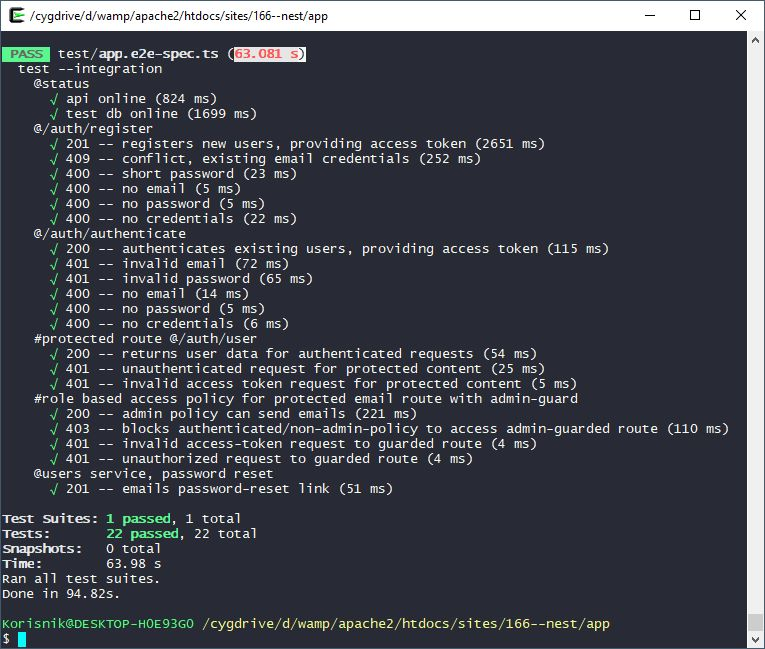
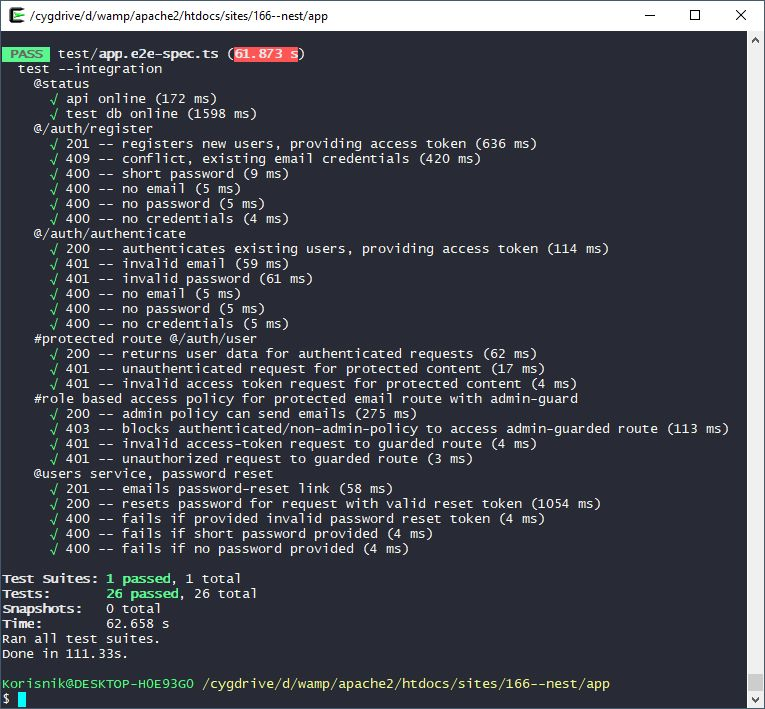
users service, reset password

Changed region(s): [[0.0, 0.0, 0.9922, 1.0]]

diff --git a/test/app.e2e-spec.ts b/test/app.e2e-spec.ts
@@ -6,6 +6,8 @@ import {
 } from '@nestjs/common';
 import { HttpAdapterHost, Reflector } from '@nestjs/core';
 import * as request from 'supertest';
+import { ConfigService } from '@nestjs/config';
+import { JwtService } from '@nestjs/jwt';
 import { AppModule } from '../src/app.module';
 import { PrismaService } from '../src/prisma/prisma.service';
 import { PrismaClientExceptionFilter } from '../src/prisma-client-exception.filter';
@@ -15,20 +17,22 @@ describe('test --integration', () => {
   let app: INestApplication;
   let prisma: PrismaService;
   let mailer: EmailService;
-  //
+  let config: ConfigService;
+  let jwt: JwtService;
+
   const fakeEmail = () => `user--${Math.random()}@email.com`;
+  const fakePassword = () => String(Math.random());
   const testUserEmail = 'admin@nikolav.rs';
   const password = '122333';
   let testUserToken: string;
   let testAdminToken: string;
-  //
+
   beforeAll(async () => {
     const moduleFixture: TestingModule = await Test.createTestingModule({
       imports: [AppModule],
     }).compile();
 
     app = moduleFixture.createNestApplication();
-    //
     // setup pipes, filters, interceptors
     app.useGlobalPipes(
       new ValidationPipe({
@@ -50,14 +54,15 @@ describe('test --integration', () => {
 
     prisma = app.get(PrismaService);
     mailer = app.get(EmailService);
-    //
+    config = app.get(ConfigService);
+    jwt = app.get(JwtService);
+
     jest.clearAllMocks();
   });
   afterAll(async () => {
     await app.close();
     jest.clearAllMocks();
   });
-  //
   // init
   describe('@status', () => {
     it('api online', () =>
@@ -246,10 +251,11 @@ describe('test --integration', () => {
         })
         .expect(401));
   });
-  //
+
   describe('@users service, password reset', () => {
-    const testRoutePasswordReset = '/users/send-password-reset-link';
+
     it('201 -- emails password-reset link', () => {
+      const testRoutePasswordReset = '/users/send-password-reset-link';
       const messageId = '<ijnqnrflcss>';
       const messageSentPayload = { messageId };
       const mockSendMail = jest
@@ -265,5 +271,48 @@ describe('test --integration', () => {
           expect(res.body.messageId).toBe(messageId);
         });
     });
+
+    const testRoutePR = '/users/password-reset';
+    const testUserPR = {
+      email: `user--${fakePassword()}@email.com`,
+      passwordHash: fakePassword(),
+    };
+    let testPRToken;
+
+    it('200 -- resets password for request with valid reset token', async () => {
+      // test user for password reset test
+      // save, get id to sign
+      const { id } = await prisma.user.create({ data: testUserPR });
+      testPRToken = jwt.sign(
+        { id },
+        {
+          secret: config.get('JWT_SECRET_UPDATE_PASSWORD'),
+          expiresIn: parseInt(
+            config.get('JWT_SECRET_UPDATE_PASSWORD_EXPIRE'),
+            10,
+          ),
+        },
+      );
+
+      return request(app.getHttpServer())
+        .post(testRoutePR)
+        .send({ token: testPRToken, password: fakePassword() })
+        .expect(200);
+    });
+    it('400 -- fails if provided invalid password reset token', () =>
+      request(app.getHttpServer())
+        .post(testRoutePR)
+        .send({ token: 'INVALID_TOKEN', password: fakePassword() })
+        .expect(400));
+    it('400 -- fails if short password provided', () =>
+      request(app.getHttpServer())
+        .post(testRoutePR)
+        .send({ token: testPRToken, password: '1' })
+        .expect(400));
+    it('400 -- fails if no password provided', () =>
+      request(app.getHttpServer())
+        .post(testRoutePR)
+        .send({ token: testPRToken })
+        .expect(400));
   });
 });

diff --git a/src/user/user.service.ts b/src/user/user.service.ts
@@ -4,7 +4,8 @@ import { User } from '@prisma/client';
 import { ConfigService } from '@nestjs/config';
 import { JwtService } from '@nestjs/jwt';
 import { assign } from 'lodash';
-import { PasswordResetDto } from './dto';
+import { hash } from 'bcryptjs';
+import { PasswordResetBodyDto, PasswordResetDto } from './dto';
 import { EmailService } from '../email/email.service';
 import { PrismaService } from '../prisma/prisma.service';
 //
@@ -36,10 +37,47 @@ export class UserService {
       { id: user.id },
       {
         secret: this.config.get('JWT_SECRET_UPDATE_PASSWORD'),
-        expiresIn: `${this.config.get('JWT_SECRET_UPDATE_PASSWORD_EXPIRE')}s`,
+        expiresIn: parseInt(
+          this.config.get('JWT_SECRET_UPDATE_PASSWORD_EXPIRE'),
+          10,
+        ),
       },
     );
     //
     return assign(user, { token });
+  }
+  //
+  async passwordUpdate({ password, token }: PasswordResetBodyDto) {
+    // steps
+    //  - verify token
+    //  - get user
+    //  - hash/update new password
+    //  - send res
+    try {
+      // veirfy
+      const { id } = this.jwt.verify(token, {
+        secret: this.config.get('JWT_SECRET_UPDATE_PASSWORD'),
+        maxAge: parseInt(
+          this.config.get('JWT_SECRET_UPDATE_PASSWORD_EXPIRE'),
+          10,
+        ),
+      });
+      // get user
+      const user = this.prisma.user.findUnique({ where: { id } });
+      if (!user) throw new BadRequestException();
+      // user exists & token valid/not-expired here
+      // hash, save, send
+      const passwordHash = await hash(
+        password,
+        parseInt(this.config.get('SALT_ROUNDS_BCRYPT'), 10),
+      );
+      // 
+      return await this.prisma.user.update({
+        where: { id },
+        data: { passwordHash },
+      });
+    } catch (error) {
+      throw new BadRequestException();
+    }
   }
 }

diff --git a/src/user/user.controller.ts b/src/user/user.controller.ts
@@ -1,7 +1,10 @@
-import { Body, Controller, Post } from '@nestjs/common';
-import { ApiTags, ApiCreatedResponse } from '@nestjs/swagger';
-import { PasswordResetDto } from './dto';
-import { ResetPasswordLinkEmailedEntitiy } from './entities';
+import { Body, Controller, Post, HttpCode, HttpStatus } from '@nestjs/common';
+import { ApiTags, ApiOkResponse } from '@nestjs/swagger';
+import { PasswordResetDto, PasswordResetBodyDto } from './dto';
+import {
+  ResetPasswordLinkEmailedEntitiy,
+  UserWithoutPasswordEntity,
+} from './entities';
 import { UserService } from './user.service';
 
 @Controller('users')
@@ -10,21 +13,24 @@ export class UserController {
   constructor(private readonly serviceUser: UserService) {}
   // no jwt check here; can reset forgot-password
   // reset password steps
-  //  - user requests reset; sends post request with email 
+  //  - user requests reset; sends post request with email
   //  - if user found, mail them link with password-reset token attached
   //  - user sends get-request to `edit-password` page; token sent along
   //  - when form submited, app makes post request to `/users/password-reset`; password and token attached @body
   //  - if token valid, update password
   @Post('send-password-reset-link')
-  @ApiCreatedResponse()
   async sendPasswordResetLink(@Body() data: PasswordResetDto) {
     return new ResetPasswordLinkEmailedEntitiy(
       await this.serviceUser.sendPasswordResetLink(data),
     );
   }
-
+  // 
   @Post('password-reset')
-  passwordUpdate() {
-    throw new Error('not implemented');
+  @HttpCode(HttpStatus.OK)
+  @ApiOkResponse()
+  async passwordUpdate(@Body() data: PasswordResetBodyDto) {
+    return new UserWithoutPasswordEntity(
+      await this.serviceUser.passwordUpdate(data),
+    );
   }
 }

diff --git a/src/auth/auth.service.ts b/src/auth/auth.service.ts
@@ -43,10 +43,10 @@ export class AuthService {
     const payload = { sub: user.id };
     // config.acces-token
     const secret = this.config.get('JWT_SECRET');
-    const expiresIn = `${this.config.get('JWT_TOKEN_EXPIRE')}s`;
+    const expiresIn = parseInt(this.config.get('JWT_TOKEN_EXPIRE'), 10);
     // config.refresh-token
     const secretRefresh = this.config.get('JWT_SECRET_TOKEN_REFRESH');
-    const expiresInRefresh = `${this.config.get('JWT_TOKEN_REFRESH_EXPIRE')}s`;
+    const expiresInRefresh = parseInt(this.config.get('JWT_TOKEN_REFRESH_EXPIRE'), 10);
     // encrypt.AT
     const token = await this.jwt.sign(payload, {
       expiresIn,
@@ -85,18 +85,18 @@ export class AuthService {
     return map(res, 'type');
   }
   //
-  async findManyByRole(roleType: string) {
-    // get *users with a .type role
-    return await this.prisma.user.findMany({
-      where: {
-        roles: {
-          some: {
-            role: {
-              type: roleType,
-            },
-          },
-        },
-      },
-    });
-  }
+  // async findManyByRole(roleType: string) {
+  //   // get *users with a .type role
+  //   return await this.prisma.user.findMany({
+  //     where: {
+  //       roles: {
+  //         some: {
+  //           role: {
+  //             type: roleType,
+  //           },
+  //         },
+  //       },
+  //     },
+  //   });
+  // }
 }

diff --git a/src/user/entities/user-without-password.entity.ts b/src/user/entities/user-without-password.entity.ts
@@ -1,0 +1,25 @@
+import { User } from '@prisma/client';
+import { assign } from 'lodash';
+import { ApiProperty } from '@nestjs/swagger';
+import { Exclude } from 'class-transformer';
+//
+export class UserWithoutPasswordEntity {
+  @ApiProperty()
+  id: string;
+
+  @ApiProperty()
+  createdAt: Date;
+
+  @ApiProperty()
+  updatedAt: Date;
+
+  @ApiProperty()
+  email: string;
+
+  @Exclude()
+  passwordHash: string;
+
+  constructor(d: Partial<User>) {
+    assign(this, d);
+  }
+}

diff --git a/src/user/dto/password-reset-body.dto.ts b/src/user/dto/password-reset-body.dto.ts
@@ -1,0 +1,16 @@
+import { PasswordResetDto } from './password-reset.dto';
+import { IsNotEmpty, MinLength } from 'class-validator'
+import { ApiProperty } from '@nestjs/swagger'
+
+
+export class PasswordResetBodyDto {
+  
+  @IsNotEmpty()
+  @MinLength(2)
+  @ApiProperty()
+  password: string;
+
+  @IsNotEmpty()
+  @ApiProperty()
+  token: string;
+}

diff --git a/src/user/entities/index.ts b/src/user/entities/index.ts
@@ -1,1 +1,2 @@
 export * from './reset-password-link-emailed.entitiy';
+export * from './user-without-password.entity';

diff --git a/src/user/dto/index.ts b/src/user/dto/index.ts
@@ -1,1 +1,2 @@
 export * from './password-reset.dto';
+export * from './password-reset-body.dto';
